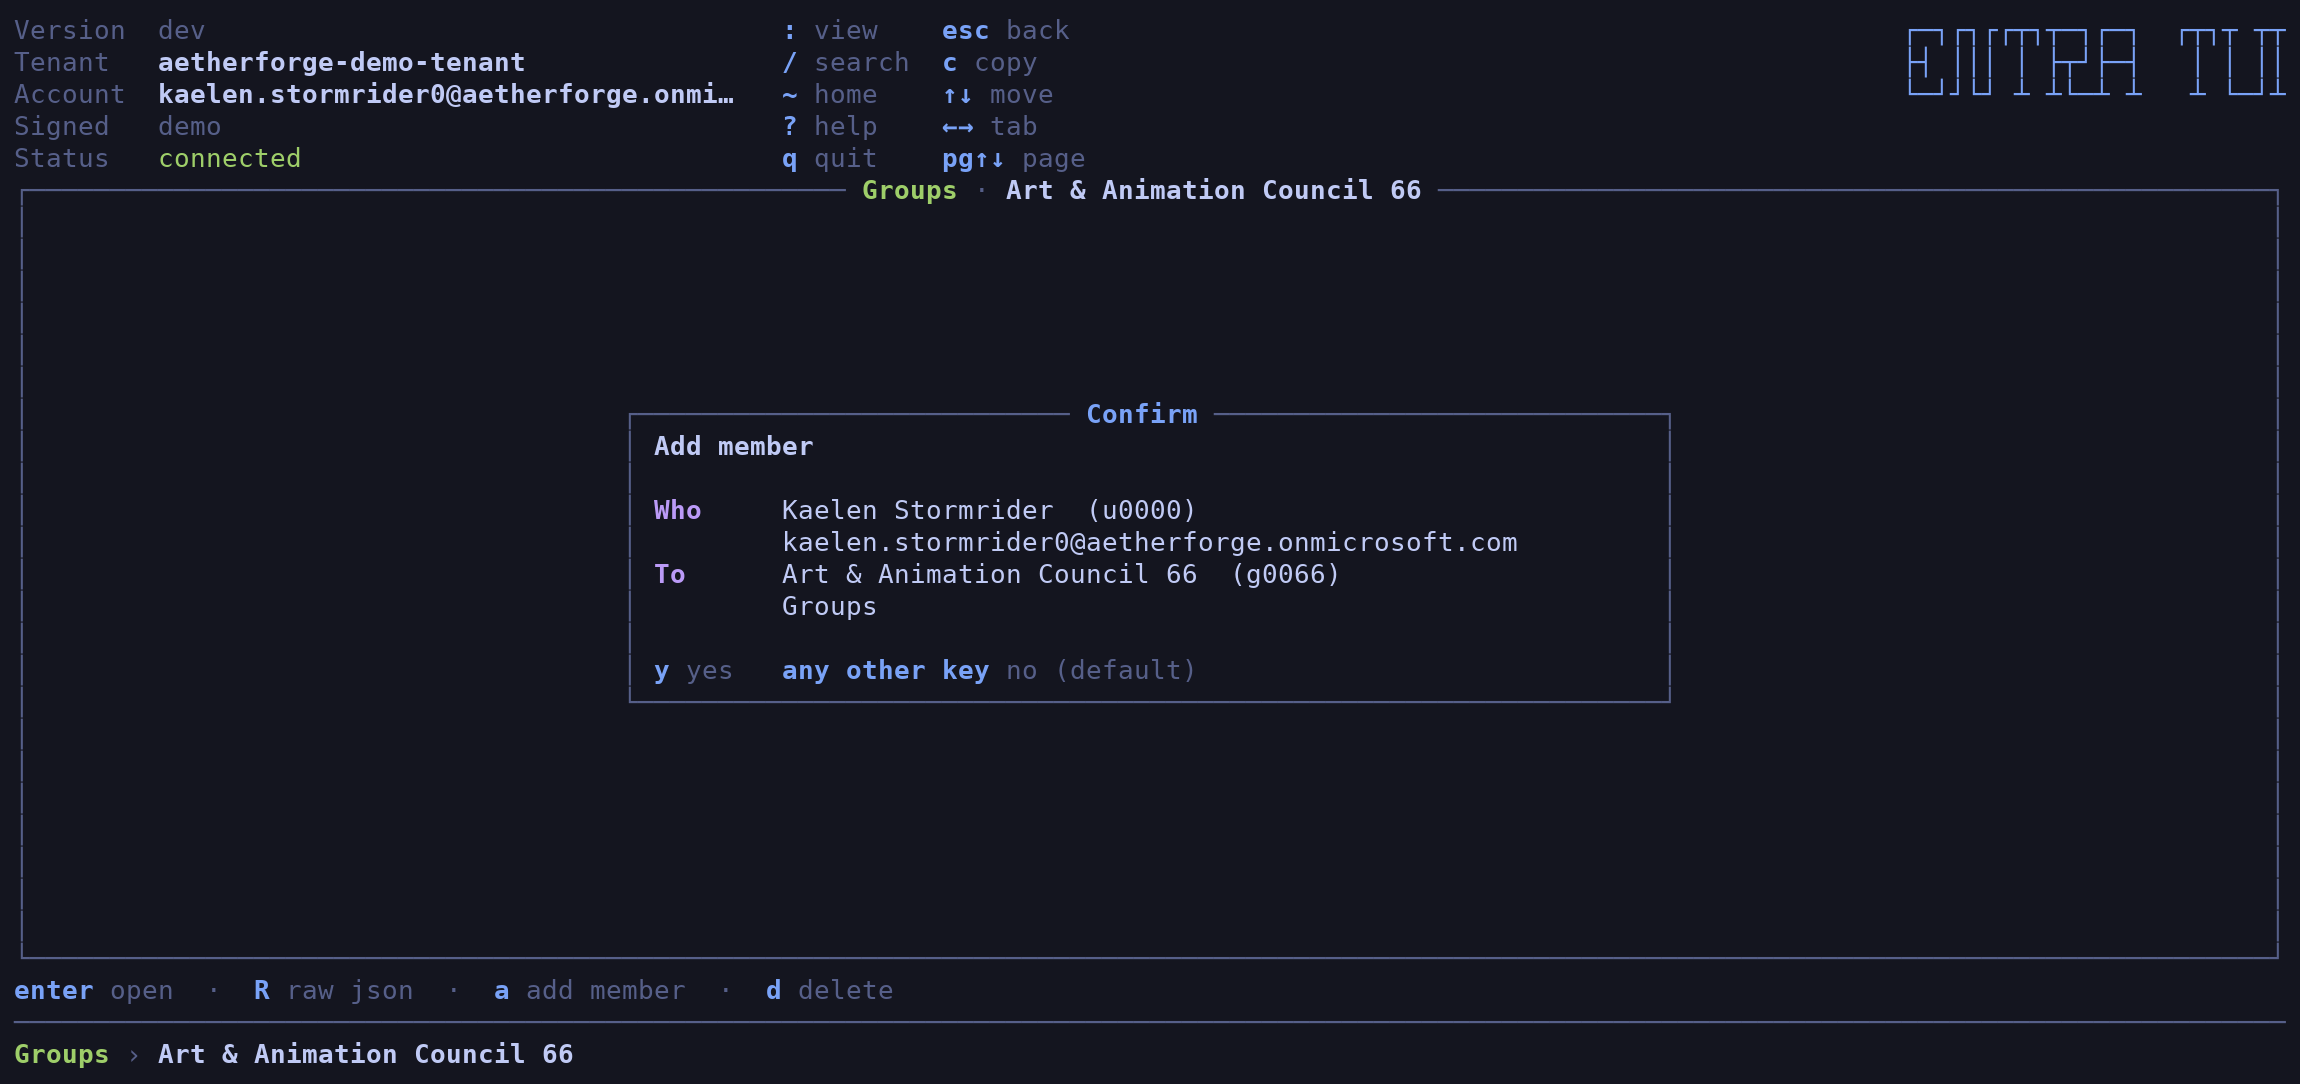
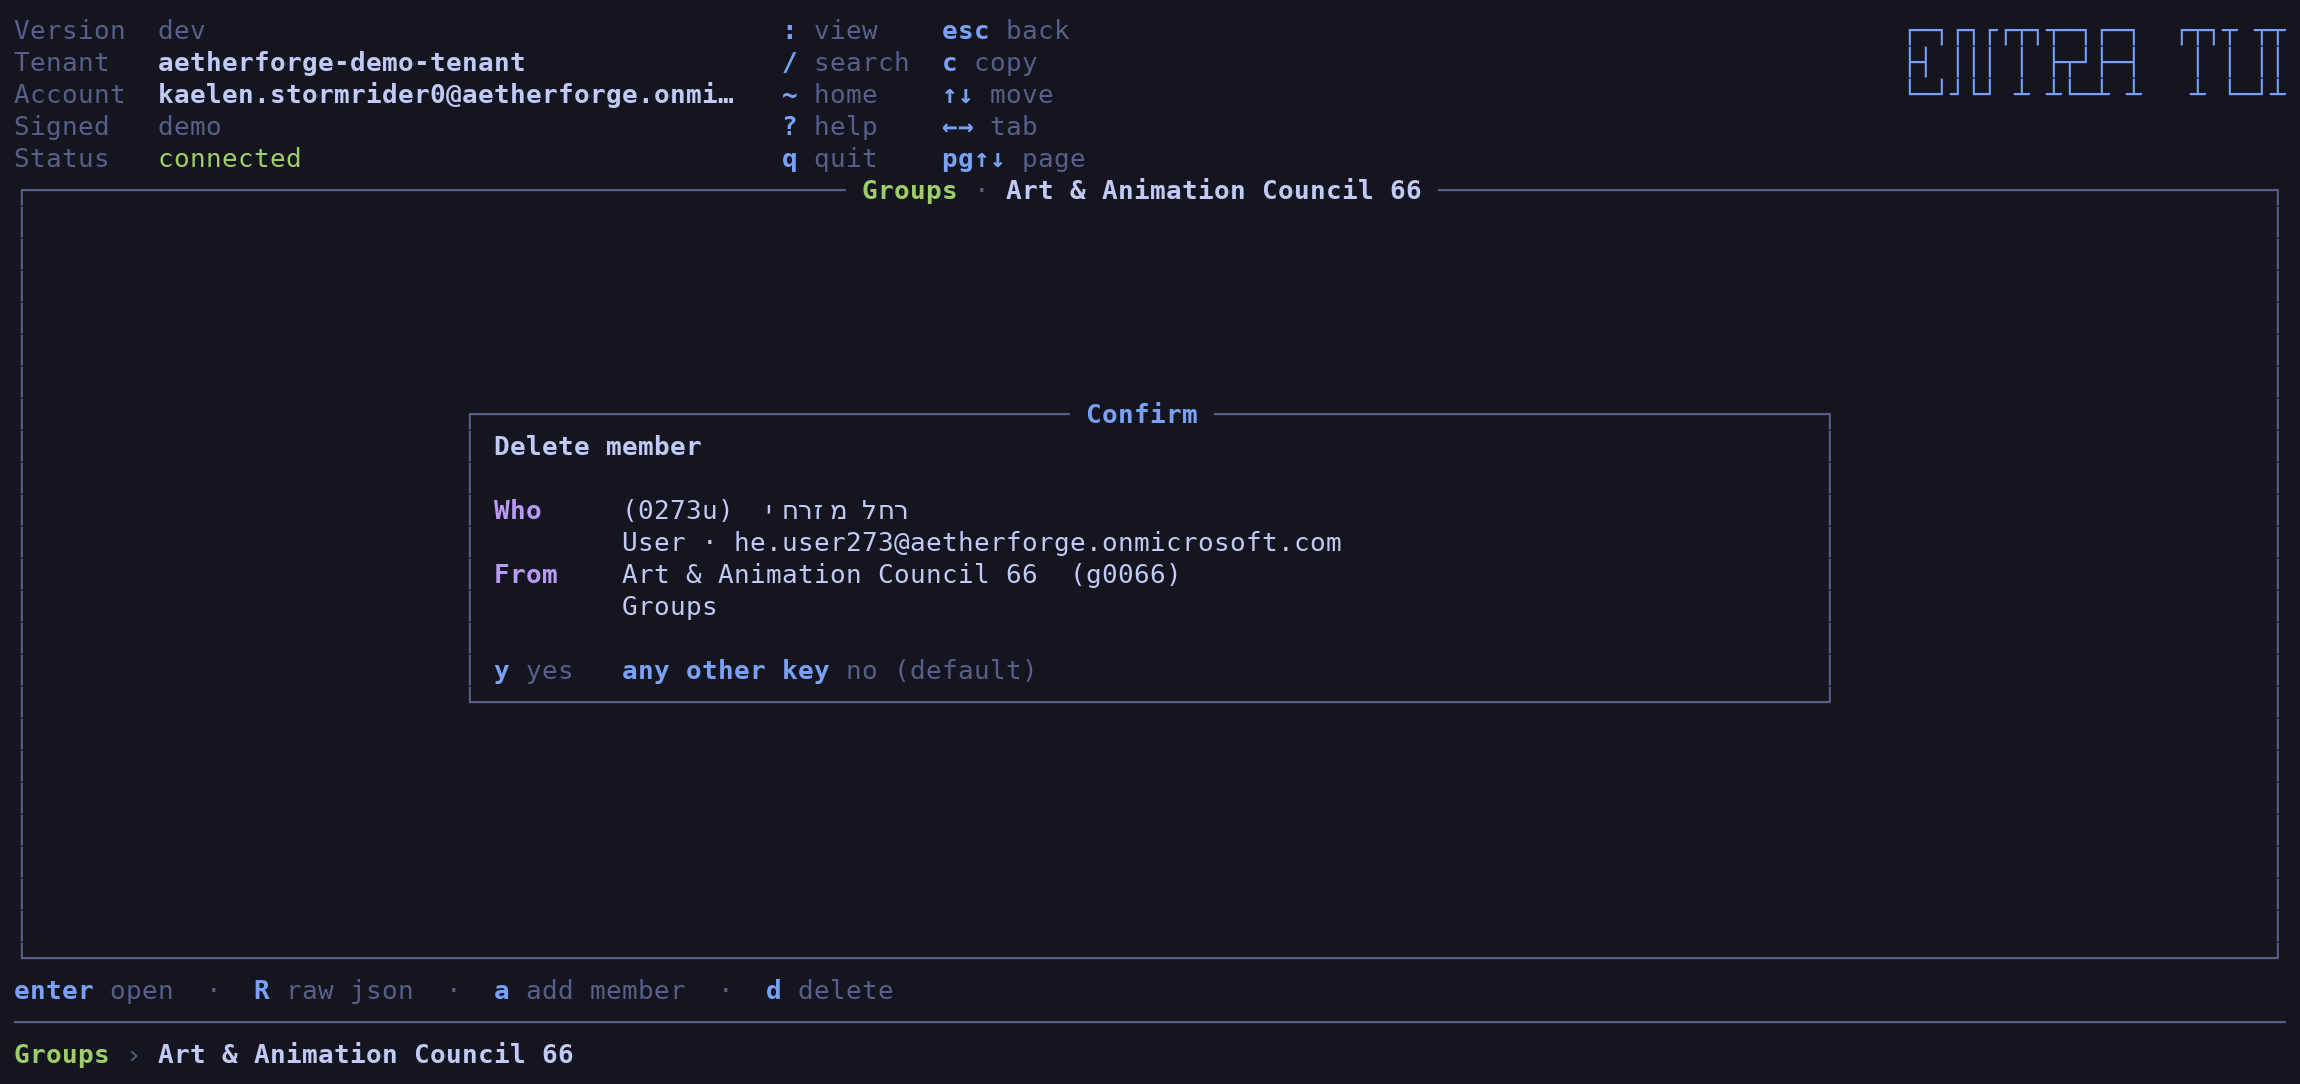
Size dashboard tiles to what they have to say
The tiles were laid out on available width alone: three across above 132
columns, two above 88. At 150 columns that gave three tiles of 48, four
cells too narrow for the longest description, so "Service principals:
apps that can sign in here" arrived as "...apps that can sign in h…" on
every launch -- on the screen the tool opens on, and in the README's only
image.

The column count now comes from the content. tilePreferredWidth measures
the longest description rather than writing a number down, so adding a
wordier view widens the tiles instead of quietly clipping one, and the
grid takes the most columns where every tile still clears it. At 150
columns that is two tiles of 73; at 156 and above it is three again, each
wide enough.

Below the two-column threshold nothing changes. There the choice stops
being wide against wider and becomes cramped against unreadable, and a
tall single column runs off the bottom of a frame that does not scroll --
so widening stops where it would start making things worse.

The golden screens are captured at 190 columns, where three tiles already
cleared the preferred width, so they are untouched. The README images are
rendered at 142 and are not: dashboard.png and confirm.png are re-rendered
(the latter for the wider dialog).

Claude-Session: https://claude.ai/code/session_012H7jW4dwzES2XmyQ1GA6Ci

diff --git a/internal/ui/dashboard.go b/internal/ui/dashboard.go
@@ -14,12 +14,33 @@ const (
 	tileGap = 2
 	// tileBodyHeight is the big number plus the description line.
 	tileBodyHeight = bigDigitHeight + 1
-	// Column-count thresholds, measured against the frame's inner width.
-	threeColumnDashboard = 132
-	twoColumnDashboard   = 88
-	// tileMinWidth keeps a tile wide enough for a seven-digit count.
+	// maxDashboardColumns caps the grid. Past three the tiles are narrower
+	// than the thing they describe.
+	maxDashboardColumns = 3
+	// twoColumnDashboard is the width below which one tile per row is the
+	// only thing that reads, whatever the descriptions would like.
+	twoColumnDashboard = 88
+	// tileMinWidth keeps a tile wide enough for a seven-digit count. It is
+	// the floor, not the goal -- see tilePreferredWidth.
 	tileMinWidth = 34
 )
+
+// tilePreferredWidth is wide enough for the longest description a tile can
+// carry, plus its border and the cell Truncate leaves either side. Measured
+// rather than written down, so adding a wordier view widens the tiles instead
+// of quietly clipping one.
+func tilePreferredWidth() int {
+	widest := 0
+	for _, r := range graph.All() {
+		widest = max(widest, lipgloss.Width(r.Description))
+	}
+	return widest + 4
+}
+
+// tileWidthFor is how wide each tile is when the row holds this many.
+func tileWidthFor(inner, columns int) int {
+	return (inner - (columns-1)*tileGap) / columns
+}
 
 // dashboardIndexOf finds a resource's position on the dashboard.
 func dashboardIndexOf(kind graph.Kind) int {
@@ -73,23 +94,35 @@ func (m Model) handleDashboardKey(msg tea.KeyMsg) (tea.Model, tea.Cmd) {
 }
 
 // dashboardColumns is how many tiles fit across.
+//
+// Fewer, wider tiles beat more, narrower ones: a column count chosen purely
+// on available width gave three tiles at 150 columns, each four cells too
+// narrow for the longest description, which then lost its last few words to
+// an ellipsis on every launch.
 func (m Model) dashboardColumns() int {
 	inner := boxInnerWidth(m.width)
-	switch {
-	case inner >= threeColumnDashboard:
-		return 3
-	case inner >= twoColumnDashboard:
-		return 2
-	default:
-		return 1
+
+	// As many across as can each still show a description in full.
+	preferred := tilePreferredWidth()
+	for columns := maxDashboardColumns; columns > 1; columns-- {
+		if tileWidthFor(inner, columns) >= preferred {
+			return columns
+		}
 	}
+	// Below that, the choice stops being wide against wider and becomes
+	// cramped against unreadable, so a narrow terminal keeps the layout it
+	// already had.
+	if inner >= twoColumnDashboard {
+		return 2
+	}
+	return 1
 }
 
 func (m Model) renderDashboard() string {
 	all := graph.All()
 	columns := m.dashboardColumns()
 	inner := boxInnerWidth(m.width)
-	tileWidth := max(tileMinWidth, (inner-(columns-1)*tileGap)/columns)
+	tileWidth := max(tileMinWidth, tileWidthFor(inner, columns))
 
 	var body []string
 	for start := 0; start < len(all); start += columns {

diff --git a/internal/ui/view_test.go b/internal/ui/view_test.go
@@ -275,3 +275,49 @@ func TestSelectionKeepsARowsStateColour(t *testing.T) {
 		t.Error("the selected row is not marked as selected at all")
 	}
 }
+
+func TestDashboardTilesAreWideEnoughForWhatTheySay(t *testing.T) {
+	// The tiles used to be laid out on width alone, which gave three across
+	// at 150 columns -- four cells too narrow for the longest description,
+	// so it lost its last words to an ellipsis on every launch.
+	preferred := tilePreferredWidth()
+
+	for _, width := range []int{156, 180, 200, 240} {
+		m := Model{width: width}
+		columns := m.dashboardColumns()
+		if got := tileWidthFor(boxInnerWidth(width), columns); got < preferred {
+			t.Errorf("at %d columns the tile is %d wide, want at least %d",
+				width, got, preferred)
+		}
+	}
+
+	// A tile that reaches the preferred width shows every description whole.
+	for _, res := range graph.All() {
+		if got := graph.Truncate(res.Description, preferred-2-2); got != res.Description {
+			t.Errorf("%s is cut to %q at the preferred width", res.Kind, got)
+		}
+	}
+}
+
+func TestNarrowDashboardsKeepTheirLayout(t *testing.T) {
+	// Widening is for terminals with room. Below the two-column threshold
+	// the choice is cramped against unreadable, and one tile per row is what
+	// reads -- so a narrow terminal must not be handed narrower tiles in the
+	// name of fitting more of them.
+	for width, want := range map[int]int{60: 1, 80: 1, 90: 2, 120: 2} {
+		if got := (Model{width: width}).dashboardColumns(); got != want {
+			t.Errorf("at width %d got %d columns, want %d", width, got, want)
+		}
+	}
+}
+
+func TestTheDashboardNeverCutsADescription(t *testing.T) {
+	// The end-to-end version: render at a real size and look for the mark
+	// Truncate leaves behind.
+	m := newDashboardModel(t)
+	for _, line := range strings.Split(m.renderDashboard(), "\n") {
+		if strings.Contains(line, "…") {
+			t.Errorf("a dashboard tile is cutting its text: %q", strings.TrimSpace(line))
+		}
+	}
+}

diff --git a/AGENTS.md b/AGENTS.md
@@ -98,6 +98,15 @@ Two legends, two jobs: everything that changes screen or moves around is in
 the header; the footer carries only what the screen can *do*. Don't repeat one
 in the other.
 
+The dashboard picks its column count from what a tile has to say, not from the
+width alone: `tilePreferredWidth` measures the longest view description, and
+the grid takes the most columns where every tile still clears it. Choosing on
+width alone put three tiles across a 150-column terminal, four cells too
+narrow for the longest one, which lost its last words to an ellipsis on every
+launch. Below `twoColumnDashboard` the choice stops being wide against wider
+and becomes cramped against unreadable, so a narrow terminal keeps one tile
+per row.
+
 ## Detail panes
 
 The object's own fields stay on top; everything enumerating other objects
